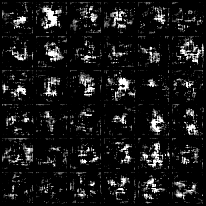
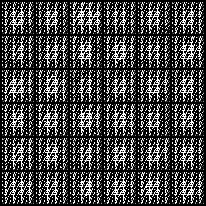
dcgan 1

diff --git a/dcgan_trainer.py b/dcgan_trainer.py
@@ -1,0 +1,137 @@
+import numpy as np
+from collections import OrderedDict
+import math
+import os
+
+import torch
+import torch.nn as nn
+from torch.utils.data import DataLoader,  Dataset
+import torch.nn.functional as F
+
+import torchvision
+from torchvision.transforms import ToTensor, Normalize, Compose, Pad
+from torchvision.datasets import MNIST
+import torchvision.transforms as tt
+from torchvision.utils import save_image
+from torchvision.datasets.utils import download_url
+
+from utils import *
+from dcgan_net import *
+
+class Properties_DCGAN:
+    def __init__(self):
+        self.z_size = 128
+        self.p_min = 2
+        self.p_max = 5
+        self.ch_img = 1
+
+        self.g_ch_in = 512
+
+        self.lr = 2e-4
+        self.optim = torch.optim.Adam
+        # self.criterion = nn.BCELoss()
+
+        self.device = torch.device("cuda" if torch.cuda.is_available() else "cpu")
+        
+    @property    
+    def d_ch_in(self):
+        return self.g_ch_in // 2 ** (self.p_max-self.p_min-1)
+
+        print(f"Discriminator output: {Discriminator(p_min, p_max, 1, d_ch_in)(torch.randn(10, 1, 32, 32)).shape}")
+        print(f"Generator output: {Generator(p_min, p_max, z_size, 1, g_ch_in)(torch.randn(10, z_size, 1, 1)).shape}")
+
+class DCGAN:
+    def __init__(self, properties, data_loader):
+        self.initialize_network(properties)
+        self.initialize_data(data_loader)
+        
+
+    def initialize_network(self, properties):
+        self.P = Properties_DCGAN()
+
+        self.G = Generator(self.P.p_min, self.P.p_max, self.P.z_size, self.P.ch_img, self.P.g_ch_in)
+        self.D = Discriminator(self.P.p_min, self.P.p_max, self.P.ch_img, self.P.d_ch_in)
+
+        self.G.to(self.P.device)
+        self.D.to(self.P.device)
+
+        self.G_opt = torch.optim.Adam(self.G.parameters(), lr=self.P.lr, betas=(0.5, 0.999))
+        self.D_opt = torch.optim.Adam(self.D.parameters(), lr=self.P.lr, betas=(0.5, 0.999))
+        self.criterion = nn.BCELoss()
+
+    def initialize_data(self, data_loader):
+        self.DL = data_loader
+        self.batch_size = self.DL.batch_size
+        self.batches_number = len(self.DL)
+
+        self.demo_z = torch.randn(6**2, self.P.z_size, 1, 1).to(self.P.device)
+
+    def train_D(self, batch):
+        D_real = self.D(batch).reshape(-1)
+        D_loss_real = self.criterion(D_real, torch.ones_like(D_real))
+
+        z = torch.randn(self.batch_size, self.P.z_size, 1, 1).to(self.P.device)
+        D_fake = self.D(self.G(z)).reshape(-1)
+        D_loss_fake = self.criterion(D_fake, torch.zeros_like(D_fake))
+
+        D_loss = (D_loss_real + D_loss_fake) / 2
+
+        self.D_opt.zero_grad()
+        D_loss.backward()
+        self.D_opt.step()
+
+        return D_loss
+
+    def train_G(self):
+        z = torch.randn(self.batch_size, self.P.z_size, 1, 1).to(self.P.device)
+        output = self.D(self.G(z)).reshape(-1)
+        G_loss = self.criterion(output, torch.ones_like(output))
+
+        self.G_opt.zero_grad()
+        G_loss.backward()
+        self.G_opt.step()
+
+        return G_loss
+
+    def fit(self, epochs):
+        
+        for epoch in range(epochs):
+            for i, (images, _) in enumerate(self.DL):
+                images = images.to(self.P.device)
+                
+                D_loss = self.train_D(images)
+                G_loss = self.train_G()
+                # print(i)
+
+            # pgan_demo.refresh(epoch)
+
+            print(f"""Epoch {epoch}:
+            Discriminator loss: {D_loss}
+            Generator loss: {G_loss}""")
+
+            self.demo()
+
+    def demo(self):
+        with torch.no_grad():
+            latent = self.demo_z
+            images = self.G(latent).clone().detach()
+            images = images.reshape(images.size(0), self.P.ch_img, 2**self.P.p_max, 2**self.P.p_max)
+            
+            directory = 'images'
+                
+            images = denorm(images)
+            save_image(images, os.path.join(directory, 'demo.png'), nrow=6)
+
+
+def main():
+    P = Properties_DCGAN()
+    DL = mnist_get_data(P.device, 100)
+
+    dcgan = DCGAN(P, DL)
+
+    dcgan.fit(100)
+
+    
+
+if __name__ == "__main__":
+    main()

diff --git a/dcgan_net.py b/dcgan_net.py
@@ -1,0 +1,104 @@
+import torch
+import torch.nn as nn
+
+def Conv(ch_in, ch_out, kernel_size, stride, padding):
+    return nn.Sequential(
+        nn.Conv2d(ch_in, ch_out, kernel_size, stride, padding, bias=False),
+        nn.BatchNorm2d(ch_out),
+        nn.LeakyReLU(0.2)
+    )
+
+def DeConv(ch_in, ch_out, kernel_size, stride, padding):
+    return nn.Sequential(
+        nn.ConvTranspose2d(ch_in, ch_out, kernel_size, stride, padding, bias=False),
+        nn.BatchNorm2d(ch_out),
+        nn.ReLU()
+    )
+
+
+class Discriminator(nn.Module):
+    def __init__(self, p_min, p_max, ch_img, ch_in):
+        super(Discriminator, self).__init__()
+        self.layers = []
+
+        #first section (output: n x ch_in x 16)
+        self.layers.extend([
+                nn.Conv2d(ch_img, ch_in, kernel_size=4, stride=2, padding=1),
+                nn.LeakyReLU(0.2),
+            ])
+
+        #middle section
+        for i in range(p_min, p_max-1):
+            self.layers.append(
+                Conv(ch_in * 2 ** (i-p_min), ch_in * 2 ** (i-p_min+1), kernel_size=4, stride=2, padding=1)
+            )
+
+        # last section
+        ch_out = ch_in * 2 ** (p_max-p_min-1)
+        self.layers.extend([
+            nn.Conv2d(ch_out, 1, kernel_size=4, stride=2, padding=0),
+            nn.Sigmoid()
+        ])
+
+        self.Sequential = nn.Sequential(*self.layers)
+            
+    
+    def forward(self, x_b):
+        return self.Sequential(x_b)
+
+
+class Generator(nn.Module):
+    def __init__(self, p_min, p_max, z_size, ch_img, ch_in):
+        super(Generator, self).__init__()
+        self.layers = []
+
+        #first section
+        self.layers.append(
+            DeConv(z_size, ch_in, 4, 1, 0)
+        )
+
+        #middle section
+        for i in range(p_min, p_max-1):
+            self.layers.append(
+                DeConv(ch_in // 2 ** (i-p_min), ch_in // 2 ** (i-p_min+1), kernel_size=4, stride=2, padding=1)
+            )
+
+        #last section
+        ch_out = ch_in // 2 ** (p_max-p_min-1)
+        self.layers.extend([
+            nn.ConvTranspose2d(ch_out, ch_img, kernel_size=4, stride=2, padding=1),
+            nn.Tanh()
+        ])
+
+        self.Sequential = nn.Sequential(*self.layers)
+
+    def forward(self, x_b):
+        return self.Sequential(x_b)
+
+def initialize_weights(model):
+    for m in model.modules():
+        if isinstance(m, (nn.Conv2d, nn.ConvTranspose2d, nn.BatchNorm2d)):
+            nn.init.normal_(m.weight.data, 0.0, 0.02)
+
+
+def main():
+    z_size = 128
+    p_min = 2
+    p_max = 5
+
+    g_ch_in = 512
+    d_ch_in = g_ch_in // 2 ** (p_max-p_min-1)
+
+    G = Generator(p_min, p_max, z_size, 1, g_ch_in)
+
+    print(f"Discriminator output: {Discriminator(p_min, p_max, 1, d_ch_in)(torch.randn(10, 1, 32, 32)).shape}")
+    print(f"Generator output: {G(torch.randn(10, z_size, 1, 1)).shape}")
+
+    z = torch.randn(100, 128, 1, 1)
+    D_fake = G(z).reshape(-1)
+    print(min(D_fake), max(D_fake))
+    nn.BCELoss()(D_fake, torch.zeros_like(D_fake))
+    print("success")
+
+if __name__ == "__main__":
+    main()
